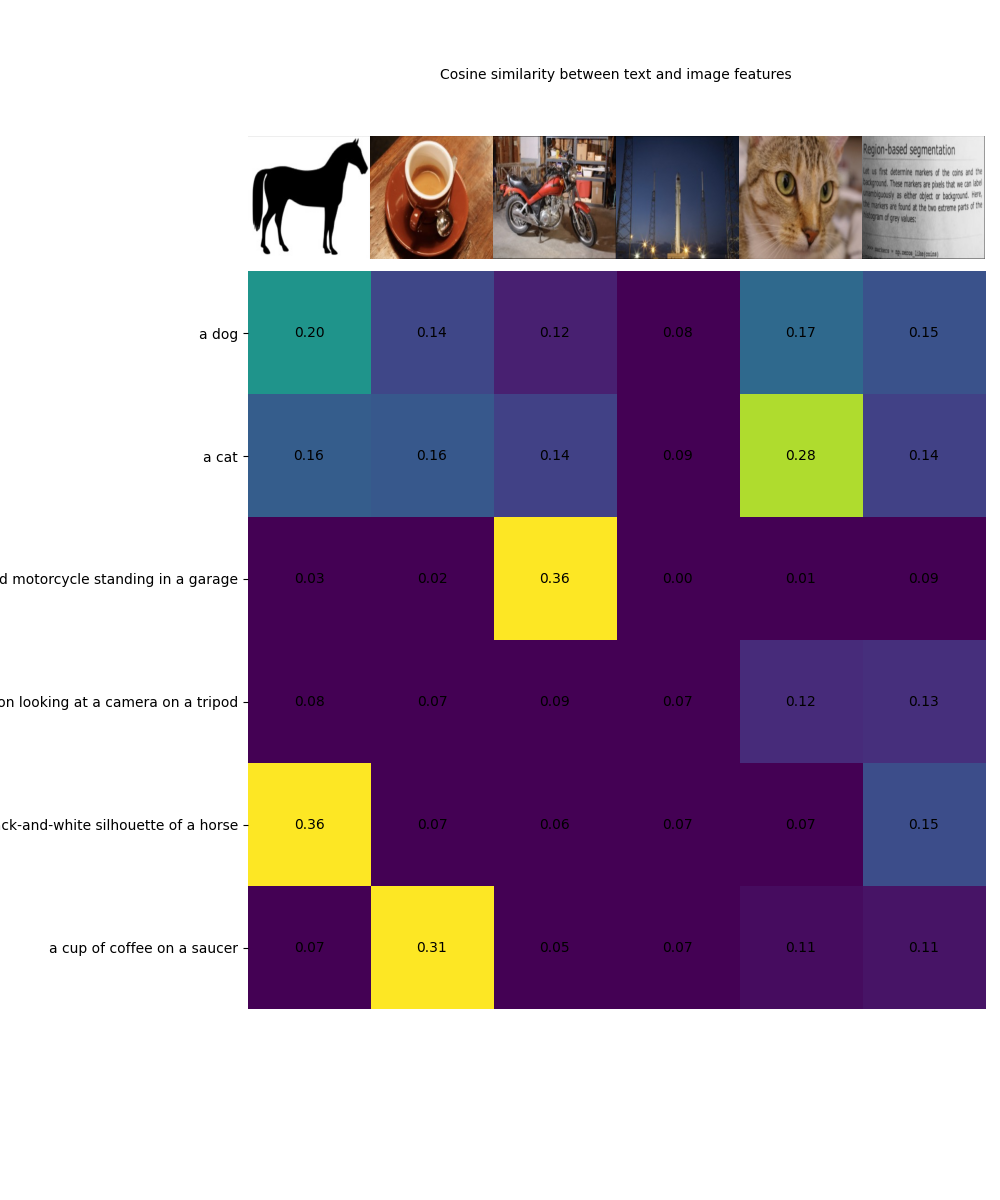
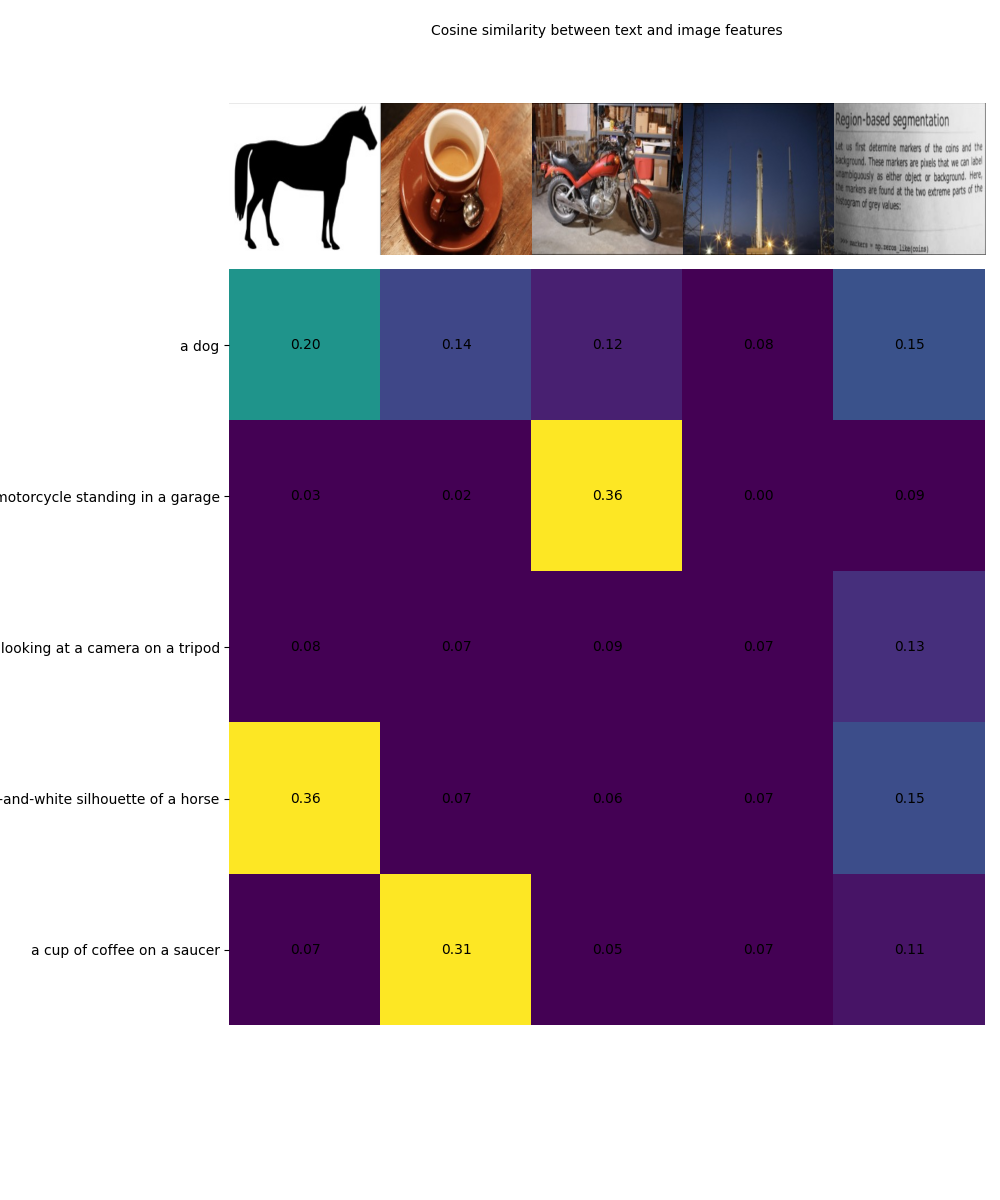
fixed description num limit

diff --git a/clip/src/Classify.jsx b/clip/src/Classify.jsx
@@ -9,10 +9,7 @@ export default function Classify(props) {
     const [description, setDes] = useState();
     const [isPending, setIsPending] = useState(true);
     const [resImage, setResImage] = useState();
-    // const [hasImage, setHasImage] = useState(0);
     const [disableBt, SetDisableBt] = useState(false);
-    
-    // let hasImage = 0;
     
     useEffect(() => {
         fetch('http://127.0.0.1:5000/getDescriptions/' + setName)
@@ -29,7 +26,7 @@ export default function Classify(props) {
     function displayDescription() {
         const showDes = []
         let desList = description
-        desList.map((des, el) => {
+        desList.map((des, el) => (
         showDes.push(
             <tr id="each description" key={el}>
                 <td key={el}>
@@ -37,7 +34,7 @@ export default function Classify(props) {
                 </td>
             </tr>
         )
-        })
+        ))
 
         return showDes
     }
@@ -52,6 +49,16 @@ export default function Classify(props) {
             })
     }
 
+    function cleanResultImg(e) {
+        fetch('http://127.0.0.1:5000/cleanResult', {method: "POST"})
+            .then((res) => {
+                return res.json();
+            })
+            .then((data) => {
+                console.log(data)
+            })
+    }
+
     function setImageList(num) {
         if (num === 0) {
             SetDisableBt(true);
@@ -61,10 +68,10 @@ export default function Classify(props) {
         }
     
     }
-
+    
     return (
         // <ClassifyImg setName={setName} descriptions={description} />
-        
+       
         <div className="Classification">    
 
             <div className="Description_section">
@@ -85,7 +92,7 @@ export default function Classify(props) {
             <div className="view_c_result">
                 <button onClick={(e) => { handleClassify(e) }} disabled={disableBt}>View Classification Result</button>
             </div>
-            <button className="back"><Link to={`/`}>Back</Link></button>
+            <button className="back" onClick={(e) => { cleanResultImg(e) }}><Link to={`/`}>Back</Link></button>
         </div>
     )
 }

diff --git a/clip/src/Home.jsx b/clip/src/Home.jsx
@@ -45,8 +45,7 @@ class Home extends React.Component {
   }
 
   setImageList(num) {
-    console.log("called" + this.state.hasImage)
-
+    // console.log("called" + this.state.hasImage)
     this.setState({
       hasImage: num
     })
@@ -179,8 +178,7 @@ class Home extends React.Component {
   }
 
   handleClickSet(setName) {
-    console.log("hi")
-    const data = { "setName": setName };
+    
     fetch('http://127.0.0.1:5000/getSet/'+setName, {
       method: 'GET',
     })
@@ -188,9 +186,9 @@ class Home extends React.Component {
         response.json()
           .then((body) => {
             var des = []
-            body["descriptions"].map((el, id) => {
+            body["descriptions"].map((el, id) => (
                 des.push({"text": el, "id": id.toString()})
-            })
+            ))
             console.log(des)
               this.setState({
                 descriptions: des,
@@ -218,7 +216,7 @@ class Home extends React.Component {
   displayDescription() {
     const showSet = []
     let setList = this.state.setList;
-      setList.map((setName, el) => {
+      setList.map((setName, el) => (
       showSet.push(
           <tr id="each set name" key={el}>
               <td key={el}>
@@ -227,7 +225,7 @@ class Home extends React.Component {
               </td>
           </tr>
       )
-      })
+      ))
 
       return showSet
     }
@@ -237,9 +235,9 @@ class Home extends React.Component {
   render() {
     let setName = this.state.setName;
     let duplicateName = false;
-    // console.log("rendered" + this.state.setList.length)
+    // console.log("rendered" + this.state.descriptions.length)
     // console.log("set names: " + this.state.setList[0])
-    if (this.state.setList.length !== 0 && this.state.setList.includes(this.state.newSetName)) { 
+    if ((this.state.setList.length !== 0 && this.state.setList.includes(this.state.newSetName)) || this.state.descriptions.length < 5) { 
       duplicateName = true;
     }
 

diff --git a/clip/src/App.jsx b/clip/src/App.jsx
@@ -1,16 +1,12 @@
-import { Route, Routes, Link } from "react-router-dom"
+import { Route, Routes} from "react-router-dom"
 import Home from "./Home"
 import Classify from "./Classify"
 
 export default function App() {
-    let setName = "hi"
-    return (
-        <div>
-            {/* <button className="export"><Link to={`/export/${setName}`}>Export</Link></button> */}
-    <Routes>
-      <Route path="/" element={<Home />} />
-      <Route path="/export/:setName" element={<Classify />} />
-    </Routes>
-            </div>
+    return (         
+      <Routes>
+        <Route path="/" element={<Home />} />
+        <Route path="/export/:setName" element={<Classify />} />
+      </Routes>
   )
 }

diff --git a/clip/src/UploadDisplayImage.jsx b/clip/src/UploadDisplayImage.jsx
@@ -27,9 +27,9 @@ class UploadDisplayImage extends React.Component {
             let labelProbs = this.props.labelProbs
             var res = ""
             if (this.props.labelProbs.length > 0) {
-                this.props.descriptions.map((el, id) => {
-                    res = res + el["text"] + ": " + labelProbs[index][id] + ", ";
-                })
+                this.props.descriptions.map((el, id) => (
+                    res = res + el["text"] + ": " + labelProbs[index][id] + ", "
+                ))
             }
 
             return (

diff --git a/clip/src/index.js b/clip/src/index.js
@@ -1,8 +1,7 @@
 import React from 'react';
 import ReactDOM from 'react-dom/client';
 import './index.css';
-import { BrowserRouter, Routes, Route, Switch } from "react-router-dom";
-import { Link, useHistory } from "react-router-dom";
+import { BrowserRouter} from "react-router-dom";
 import App from "./App";
 
 const root = ReactDOM.createRoot(document.getElementById('root'));

diff --git a/backend/classify.py b/backend/classify.py
@@ -1,4 +1,4 @@
-from flask import Flask, flash, request, redirect, make_response, url_for, session, jsonify
+from flask import Flask, request
 from flask_cors import CORS
 from collections import OrderedDict
 from werkzeug.utils import secure_filename
@@ -7,7 +7,6 @@ import glob
 import os
 import logging
 import json
-import shutil
 
 app = Flask(__name__)
 CORS(app, resources={"/*": {"origin": "http://localhost:3000"}})
@@ -148,6 +147,18 @@ def getDescriptions(setName):
     des = json.load(open('files/descriptionSet.json'))[setName]["descriptions"]
 
     return {"descriptions": des}
+
+@app.route("/cleanResult", methods=["POST"])
+def cleanResult():
+    """Clean up the result images."""
+
+    filelist = glob.glob(os.path.join(RESULT_IMAGE_PATH, "classify_Images", "*"))
+    for f in filelist:
+        # print(f)
+        os.remove(f)
+    
+    return {"status": "cleaned up result_image"}
+    
 
 @app.route("/getProb/<setName>", methods=["GET"])
 def getProbabilities(setName):

diff --git a/backend/clip.py b/backend/clip.py
@@ -103,6 +103,9 @@ class Clip:
 
             # similarity = text_features.cpu().numpy() @ image_features.cpu().numpy().T
             text_probs = (100.0 * image_features @ text_features.T).softmax(dim=-1)
+            # t = 5
+            # if len(self.descriptions) < 5:
+            #     t = 
             top_probs, top_labels = text_probs.cpu().topk(5, dim=-1)
         
         plt.figure(figsize=(16, 16))
@@ -131,5 +134,5 @@ class Clip:
         
 
         return {
-            "classify_location":"classifications.png"
+            "classify_location": self.setName + ".png"
         }
